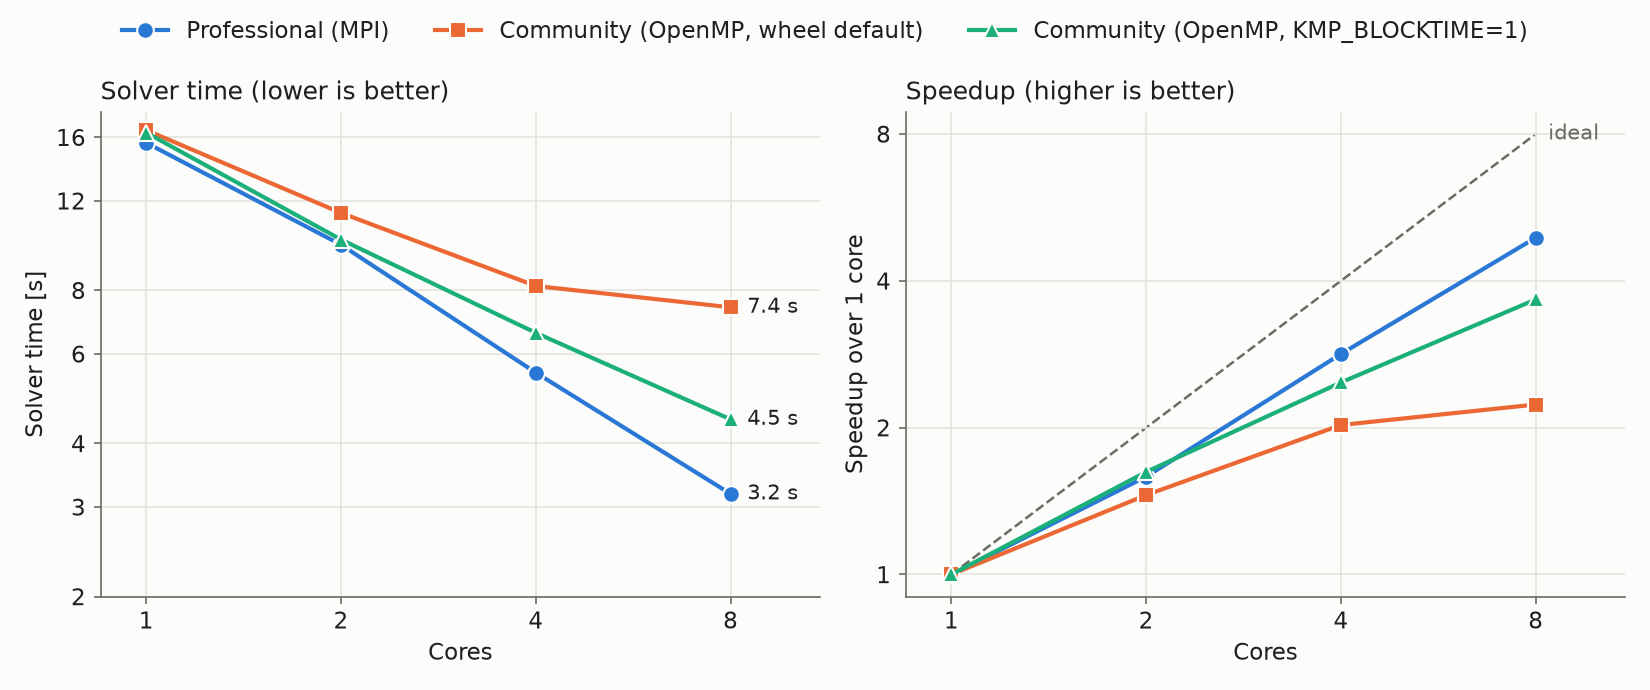
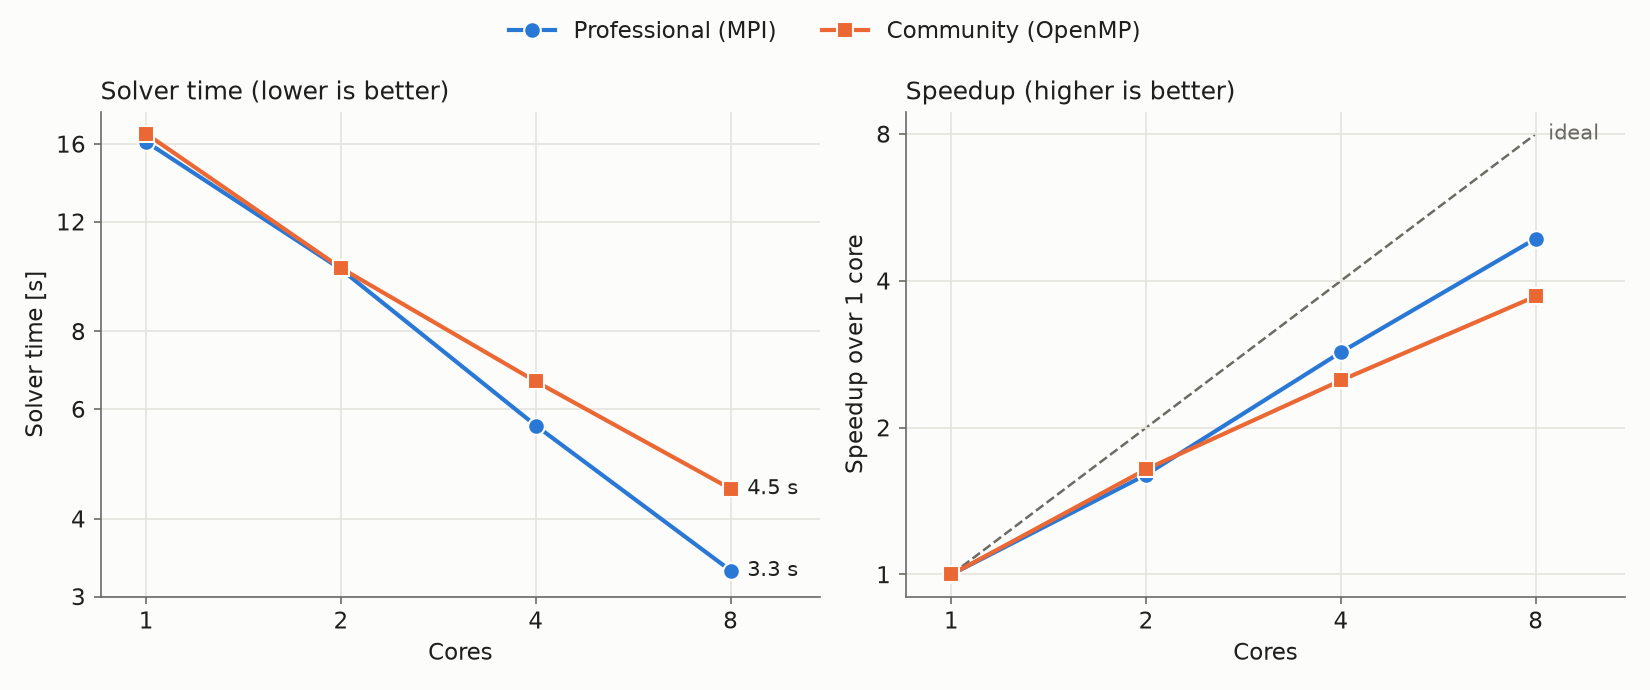
docs(EMAG-206): Benchmarks: IEEJ Model D scaling, TEAM 1b rerun on main
TEAM 1b rerun with development wheels built from mufem-dev main (3c15cb7).
Add IEEJ Model D on 1, 2, 4 and 8 cores (scaling.py --case modeld) and
label the editions Professional (MPI) and Community (OpenMP).

diff --git a/Benchmarks/scaling.py b/Benchmarks/scaling.py
@@ -1,9 +1,11 @@
-"""Strong scaling of mufem Community (OpenMP) and Professional (MPI) on TEAM 1b.
+"""Strong scaling of mufem Community (OpenMP) and Professional (MPI).
 
-Runs the TEAM 1b validation case on 1, 2, 4 and 8 cores with each configuration and
-writes the solver times to results/Team1b_Scaling.csv; plot_scaling.py draws them.
+Runs a validation case (TEAM 1b or IEEJ Model D) on 1, 2, 4 and 8 cores
+with each edition and writes the solver times to results/<case>_Scaling.csv;
+plot_scaling.py draws them.
 
     python scaling.py --community /path/to/community-venv --professional /path/to/professional-venv
+    python scaling.py --case modeld --repeats 1 --community ... --professional ...
 
 Each environment holds one mufem build (`pip install mufem` or `pip install mufem-mpi`)
 and casekit (`pip install -e ./casekit`). The Professional build reads its license from
@@ -22,9 +24,14 @@ import time
 from pathlib import Path
 
 HERE = Path(__file__).resolve().parent
-CASE_DIR = HERE.parent / "Validations" / "Electromagnetics" / "Compumag-Team1b-Felix-Cylinder"
+VALIDATIONS = HERE.parent / "Validations" / "Electromagnetics"
 CASE_FILES = ("case.py", "geometry.mesh", "geometry.step", "data")
-CORES = (1, 2, 4, 8)
+
+# name -> (case directory, core counts, results file)
+CASES = {
+    "team1b": (VALIDATIONS / "Compumag-Team1b-Felix-Cylinder", (1, 2, 4, 8), "Team1b_Scaling.csv"),
+    "modeld": (VALIDATIONS / "IEEJ_2012_IPM_Motor_Model_D", (1, 2, 4, 8), "ModelD_Scaling.csv"),
+}
 
 # Times ValidationCase.solve (the time stepping) on the main process; the import, the
 # mesh loading and the post-processing are left out.
@@ -51,12 +58,10 @@ validation_case.ValidationCase.solve = _timed_solve
 runpy.run_path("case.py", run_name="__main__")
 """
 
-# name -> (build, extra environment). The Community wheel defaults to
-# OMP_WAIT_POLICY=passive; KMP_BLOCKTIME=1 lets idle threads spin for 1 ms first.
+# name -> (build, extra environment).
 CONFIGURATIONS = {
-    "Professional": ("professional", {"OMP_NUM_THREADS": "1"}),
-    "Community": ("community", {}),
-    "Community, KMP_BLOCKTIME=1": ("community", {"KMP_BLOCKTIME": "1"}),
+    "Professional (MPI)": ("professional", {"OMP_NUM_THREADS": "1"}),
+    "Community (OpenMP)": ("community", {}),
 }
 
 
@@ -100,22 +105,25 @@ def main() -> None:
     parser.add_argument(
         "--professional", type=Path, required=True, help="environment with mufem-mpi"
     )
+    parser.add_argument("--case", choices=CASES, default="team1b")
     parser.add_argument("--repeats", type=int, default=3)
-    parser.add_argument("--output", type=Path, default=HERE / "results" / "Team1b_Scaling.csv")
+    parser.add_argument("--output", type=Path, help="default: results/<case>_Scaling.csv")
     args = parser.parse_args()
+    case_dir, cores_list, results_file = CASES[args.case]
+    output = args.output or HERE / "results" / results_file
     venvs = {"community": args.community.resolve(), "professional": args.professional.resolve()}
 
     with tempfile.TemporaryDirectory() as tmp:
         work = Path(tmp)
         for name in CASE_FILES:
-            source = CASE_DIR / name
+            source = case_dir / name
             (shutil.copytree if source.is_dir() else shutil.copy)(source, work / name)
         (work / "driver.py").write_text(DRIVER)
 
         rows = []
         # Interleaved, so that a drift of the machine spreads over all configurations.
         for repeat in range(1, args.repeats + 1):
-            for cores in CORES:
+            for cores in cores_list:
                 for name, (build, extra) in CONFIGURATIONS.items():
                     solve, wall = run(build, venvs[build], extra, cores, work)
                     rows.append(
@@ -128,12 +136,12 @@ def main() -> None:
                         }
                     )
                     print(
-                        f"{name:28s} {cores} cores, repeat {repeat}: "
+                        f"{name:20s} {cores} cores, repeat {repeat}: "
                         f"solve {solve:6.2f} s, wall {wall:6.2f} s"
                     )
 
-    args.output.parent.mkdir(exist_ok=True)
-    with args.output.open("w", newline="") as file:
+    output.parent.mkdir(exist_ok=True)
+    with output.open("w", newline="") as file:
         writer = csv.DictWriter(file, fieldnames=list(rows[0]))
         writer.writeheader()
         writer.writerows(rows)
@@ -144,9 +152,9 @@ def main() -> None:
             statistics.median(
                 r["solve_s"] for r in rows if r["configuration"] == name and r["cores"] == c
             )
-            for c in CORES
+            for c in cores_list
         ]
-        print(f"  {name:28s} " + "  ".join(f"{m:6.2f}" for m in medians))
+        print(f"  {name:20s} " + "  ".join(f"{m:6.2f}" for m in medians))
 
 
 if __name__ == "__main__":

diff --git a/Benchmarks/plot_scaling.py b/Benchmarks/plot_scaling.py
@@ -1,4 +1,4 @@
-"""Plot results/Team1b_Scaling.csv (written by scaling.py) to results/Team1b_Scaling.png."""
+"""Plot the results of scaling.py to results/Team1b_Scaling.png and results/ModelD_Scaling.png."""
 
 import csv
 import statistics
@@ -9,16 +9,10 @@ import matplotlib.pyplot as plt
 HERE = Path(__file__).resolve().parent
 RESULTS = HERE / "results"
 
-# Categorical slots 1-3; marker shapes as a second cue besides color.
+# Categorical slots 1-2; marker shapes as a second cue besides color.
 STYLE = {
-    "Professional": {"color": "#2a78d6", "marker": "o"},
-    "Community": {"color": "#eb6834", "marker": "s"},
-    "Community, KMP_BLOCKTIME=1": {"color": "#1baf7a", "marker": "^"},
-}
-LABEL = {
-    "Professional": "Professional (MPI)",
-    "Community": "Community (OpenMP, wheel default)",
-    "Community, KMP_BLOCKTIME=1": "Community (OpenMP, KMP_BLOCKTIME=1)",
+    "Professional (MPI)": {"color": "#2a78d6", "marker": "o"},
+    "Community (OpenMP)": {"color": "#eb6834", "marker": "s"},
 }
 SURFACE = "#fcfcfb"
 INK = "#1f1f1e"
@@ -55,11 +49,11 @@ def style_axes(ax, ylabel: str) -> None:
     ax.tick_params(colors=MUTED, labelcolor=INK)
 
 
-def main() -> None:
-    data = medians(RESULTS / "Team1b_Scaling.csv")
+def plot(stem: str, ticks: tuple[float, ...]) -> None:
+    """Solver time and speedup over 1 core of results/<stem>.csv, drawn to results/<stem>.png."""
+    data = medians(RESULTS / f"{stem}.csv")
     cores = sorted(next(iter(data.values())))
 
-    plt.rcParams.update({"font.size": 11})
     fig, (ax_time, ax_speedup) = plt.subplots(1, 2, figsize=(11, 4.6), facecolor=SURFACE)
 
     for name, times in data.items():
@@ -73,7 +67,7 @@ def main() -> None:
             "markersize": 8,
         }
         common["markeredgecolor"] = SURFACE
-        ax_time.plot(x, t, label=LABEL[name], **common)
+        ax_time.plot(x, t, label=name, **common)
         ax_speedup.plot(x, [t[0] / v for v in t], **common)
         # Direct label: the time on the largest core count.
         ax_time.annotate(
@@ -102,8 +96,10 @@ def main() -> None:
     ax_time.minorticks_off()
     ticks = [
         t
-        for t in (2, 3, 4, 6, 8, 12, 16, 24, 32)
-        if t <= 1.1 * max(max(v.values()) for v in data.values())
+        for t in ticks
+        if 0.9 * min(min(v.values()) for v in data.values())
+        <= t
+        <= 1.1 * max(max(v.values()) for v in data.values())
     ]
     ax_time.set_yticks(ticks, [str(t) for t in ticks])
     ax_time.set_xlim(0.85, 11)
@@ -116,10 +112,17 @@ def main() -> None:
     ax_speedup.set_title("Speedup (higher is better)", color=INK, loc="left", fontsize=12)
 
     fig.legend(
-        loc="upper center", ncol=3, frameon=False, labelcolor=INK, bbox_to_anchor=(0.5, 1.0)
+        loc="upper center", ncol=2, frameon=False, labelcolor=INK, bbox_to_anchor=(0.5, 1.0)
     )
     fig.tight_layout(rect=(0, 0, 1, 0.92))
-    fig.savefig(RESULTS / "Team1b_Scaling.png", dpi=150, facecolor=SURFACE)
+    fig.savefig(RESULTS / f"{stem}.png", dpi=150, facecolor=SURFACE)
+
+
+def main() -> None:
+    plt.rcParams.update({"font.size": 11})
+    plot("Team1b_Scaling", (2, 3, 4, 6, 8, 12, 16, 24, 32))
+    if (RESULTS / "ModelD_Scaling.csv").exists():
+        plot("ModelD_Scaling", (100, 150, 200, 300, 400, 600))
 
 
 if __name__ == "__main__":

diff --git a/Benchmarks/README.md b/Benchmarks/README.md
@@ -3,7 +3,8 @@
 Performance measurements of mufem on reproducible cases. Each benchmark lists the machine, how it was
 started and what was measured, so that the numbers can be compared and re-run.
 
-**Contents:** [Strong scaling: TEAM 1b](#strong-scaling-team-1b)
+**Contents:** [Strong scaling: TEAM 1b](#strong-scaling-team-1b) ·
+[IEEJ Model D](#ieej-model-d)
 
 ## Strong scaling: TEAM 1b
 
@@ -19,17 +20,17 @@ How the solver time of a fixed problem drops with the number of cores, for the C
 
 ### Results
 
-Median solver time of three runs, in seconds; the speedup over one core of the same configuration in
+Median solver time of three runs, in seconds; the speedup over one core of the same edition in
 parentheses.
 
-| Cores | Professional (MPI) | Community (OpenMP, wheel default) | Community (OpenMP, `KMP_BLOCKTIME=1`) |
-|---|---|---|---|
-| 1 | 15.60 | 16.52 | 16.34 |
-| 2 | 9.83 (1.59x) | 11.36 (1.45x) | 10.07 (1.62x) |
-| 4 | 5.51 (2.83x) | 8.16 (2.02x) | 6.60 (2.48x) |
-| 8 | 3.18 (4.91x) | 7.41 (2.23x) | 4.46 (3.66x) |
+| Cores | Professional (MPI) | Community (OpenMP) |
+|---|---|---|
+| 1 | 16.12 | 16.61 |
+| 2 | 10.06 (1.60x) | 10.11 (1.64x) |
+| 4 | 5.65 (2.85x) | 6.65 (2.50x) |
+| 8 | 3.30 (4.88x) | 4.47 (3.72x) |
 
-- On one core the editions are within 6%.
+- On one core the editions are within 3%.
 - Professional scales furthest: 4.9x on 8 cores. Each MPI process owns a part of the mesh and
   works on its own data, so every phase of the solve runs in parallel. Processes synchronize only
   where they exchange data. In the OpenMP build some phases still run on one thread, such as the
@@ -45,13 +46,9 @@ parentheses.
   [How it was run and measured](#how-it-was-run-and-measured)). End to end, 8 cores save less
   than the solver times suggest. Field export, the main output cost of a real run, is off and
   not measured.
-- Community with the wheel's default wait policy (`OMP_WAIT_POLICY=passive`) levels off beyond
-  4 cores. Idle threads sleep at once, and waking them for each of the many short parallel
-  regions of the AMG V-cycles costs more than the work in them.
-- With `KMP_BLOCKTIME=1` idle threads spin for 1 ms before sleeping, so they stay awake between
-  back-to-back regions. This takes Community from 7.41 s to 4.46 s on 8 cores. Set it before
-  starting Python, e.g. `KMP_BLOCKTIME=1 python case.py`; it is planned as the default for a
-  later release.
+- Idle OpenMP threads of the Community edition spin for 1 ms before they sleep, so they stay
+  awake between the many short parallel regions of the AMG V-cycles. Sleeping at once
+  (`OMP_WAIT_POLICY=passive`, the default of 0.8.35) took 7.4 s on 8 cores with 0.8.35.
 - The three runs of each point differ by less than 3%. The raw times of every run are in
   [results/Team1b_Scaling.csv](./results/Team1b_Scaling.csv).
 
@@ -74,29 +71,29 @@ eddy currents in an aluminum cylinder in a decaying field, as in the validation 
 | Memory | 64 GB |
 | OS | Ubuntu 24.04.5 LTS, Linux 7.0 |
 | Python | 3.12.3 |
-| mufem | `mufem` 0.8.35 (Community) and `mufem-mpi` 0.8.35 (Professional), from the published wheels |
+| mufem | development wheels of the version after 0.8.35, built from the main branch (`3c15cb7`) with the release compiler settings: Community (OpenMP) and Professional (MPI) |
 
 ### How it was run and measured
 
-[scaling.py](./scaling.py) runs every configuration on 1, 2, 4 and 8 cores, three times. The order is
-interleaved (repeat, then cores, then configuration), so that a drift of the machine spreads over all
-configurations. Every run is a separate process on an otherwise idle machine, pinned to the cores
+[scaling.py](./scaling.py) runs both editions on 1, 2, 4 and 8 cores, three times. The order is
+interleaved (repeat, then cores, then edition), so that a drift of the machine spreads over both
+editions. Every run is a separate process on an otherwise idle machine, pinned to the cores
 `0` to `n-1` with `taskset -c 0-<n-1>`:
 
-| Configuration | Started as |
+| Edition | Started as |
 |---|---|
-| Professional | `pymufem <n> driver.py --no-field-export` with `OMP_NUM_THREADS=1`: `n` MPI ranks, each bound to one core (`--bind-to core`) |
-| Community | `python driver.py --no-field-export` with `OMP_NUM_THREADS=<n> OMP_PROC_BIND=close OMP_PLACES=cores`: one process with `n` threads; the wheel sets `OMP_WAIT_POLICY=passive` |
-| Community, `KMP_BLOCKTIME=1` | as Community, plus `KMP_BLOCKTIME=1` |
+| Professional (MPI) | `pymufem <n> driver.py --no-field-export` with `OMP_NUM_THREADS=1`: `n` MPI ranks, each bound to one core (`--bind-to core`) |
+| Community (OpenMP) | `python driver.py --no-field-export` with `OMP_NUM_THREADS=<n> OMP_PROC_BIND=close OMP_PLACES=cores`: one process with `n` threads |
 
 `driver.py` runs the TEAM 1b `case.py` unchanged and times `ValidationCase.solve()` on the main
 process with `time.perf_counter()`. That is the time stepping: assembly, linear and nonlinear solves
 and reports. Python start-up, the import, mesh loading, the validation checks and the plots are left
-out; they add 0.7 to 1.0 s to every run, which the CSV also records as `wall_s`. Field export is off (`--no-field-export`). The plotted value is the median of
-the three runs.
+out; they add 0.6 to 1.0 s to every run, which the CSV also records as `wall_s`. Field export is off
+(`--no-field-export`). The plotted value is the median of the three runs.
 
 To reproduce, install each edition into its own environment together with casekit, then run the
-benchmark and plot the results:
+benchmark and plot the results. Until the next release, `pip install` gives 0.8.35; set
+`KMP_BLOCKTIME=1` with it to match the Community numbers above:
 
 ```bash
 python -m venv community && community/bin/pip install mufem && community/bin/pip install -e ./casekit
@@ -107,4 +104,48 @@ cd Benchmarks
 export MUFEM_LICENSE_KEY=...    # for the Professional edition
 python scaling.py --community ../community --professional ../professional
 python plot_scaling.py           # needs matplotlib
+```
+
+## IEEJ Model D
+
+A larger, nonlinear case with motion: the solver time of the
+[IEEJ Model D](../Validations/Electromagnetics/IEEJ_2012_IPM_Motor_Model_D/README.md) interior
+permanent magnet motor on 1, 2, 4 and 8 cores.
+
+<div align="center">
+<img src="./results/ModelD_Scaling.png" alt="IEEJ Model D solver time and speedup: Community vs Professional" width="100%">
+<br/>
+<em>Figure 2: Solver time of IEEJ Model D (left) and speedup over 1 core (right).</em>
+</div>
+<br/>
+
+| Cores | Professional (MPI) | Community (OpenMP) |
+|---|---|---|
+| 1 | 566.3 s | 565.4 s |
+| 2 | 312.8 s (1.81x) | 334.5 s (1.69x) |
+| 4 | 179.5 s (3.15x) | 211.0 s (2.68x) |
+| 8 | 111.7 s (5.07x) | 147.4 s (3.84x) |
+
+- On 1 core both editions take the same time. With more cores Professional pulls ahead: 6% less
+  solver time on 2 cores, 15% on 4 and 24% on 8, for the same reasons as in TEAM 1b. Here, too,
+  some phases of the OpenMP build run on one thread.
+- On 8 cores the parallel efficiency is 63% for Professional and 48% for Community, close to
+  TEAM 1b (61% and 47%).
+- Each time step does more work than in TEAM 1b: a saturating BH curve with up to 20 nonlinear
+  iterations, the rotor turning on a sliding non-matching interface, and the coupling across it
+  rebuilt every step. The mesh motion and the rebuild scale less well than the linear solves.
+- The case is long enough (2 to 9.5 min of solving) that start-up, mesh loading and output, about
+  2 s per run, hardly matter.
+- One run per point, since every run takes minutes; the TEAM 1b runs, measured the same way,
+  differ by less than 3%. The times are in
+  [results/ModelD_Scaling.csv](./results/ModelD_Scaling.csv).
+
+The case runs as in the validation: first-order field-conforming (T-Omega) formulation with a
+magnetostatic initialization, one electrical period at 1500 rpm in 120 time steps. Machine,
+software and measurement are those of TEAM 1b (see
+[How it was run and measured](#how-it-was-run-and-measured)); to reproduce:
+
+```bash
+python scaling.py --case modeld --repeats 1 --community ../community --professional ../professional
+python plot_scaling.py
 ```
